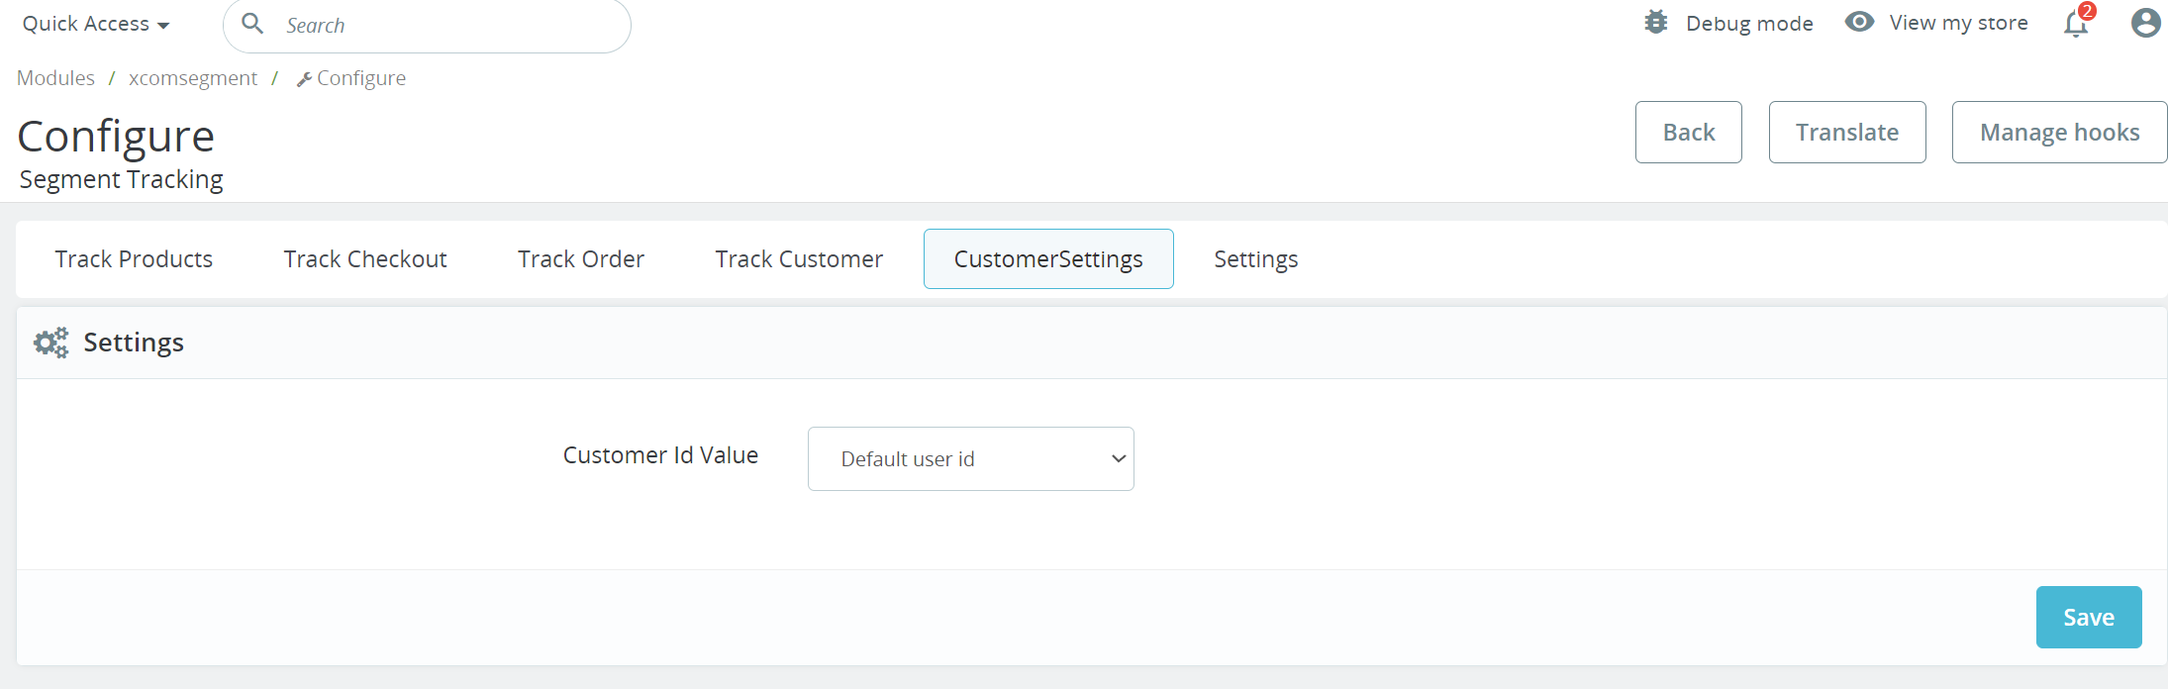
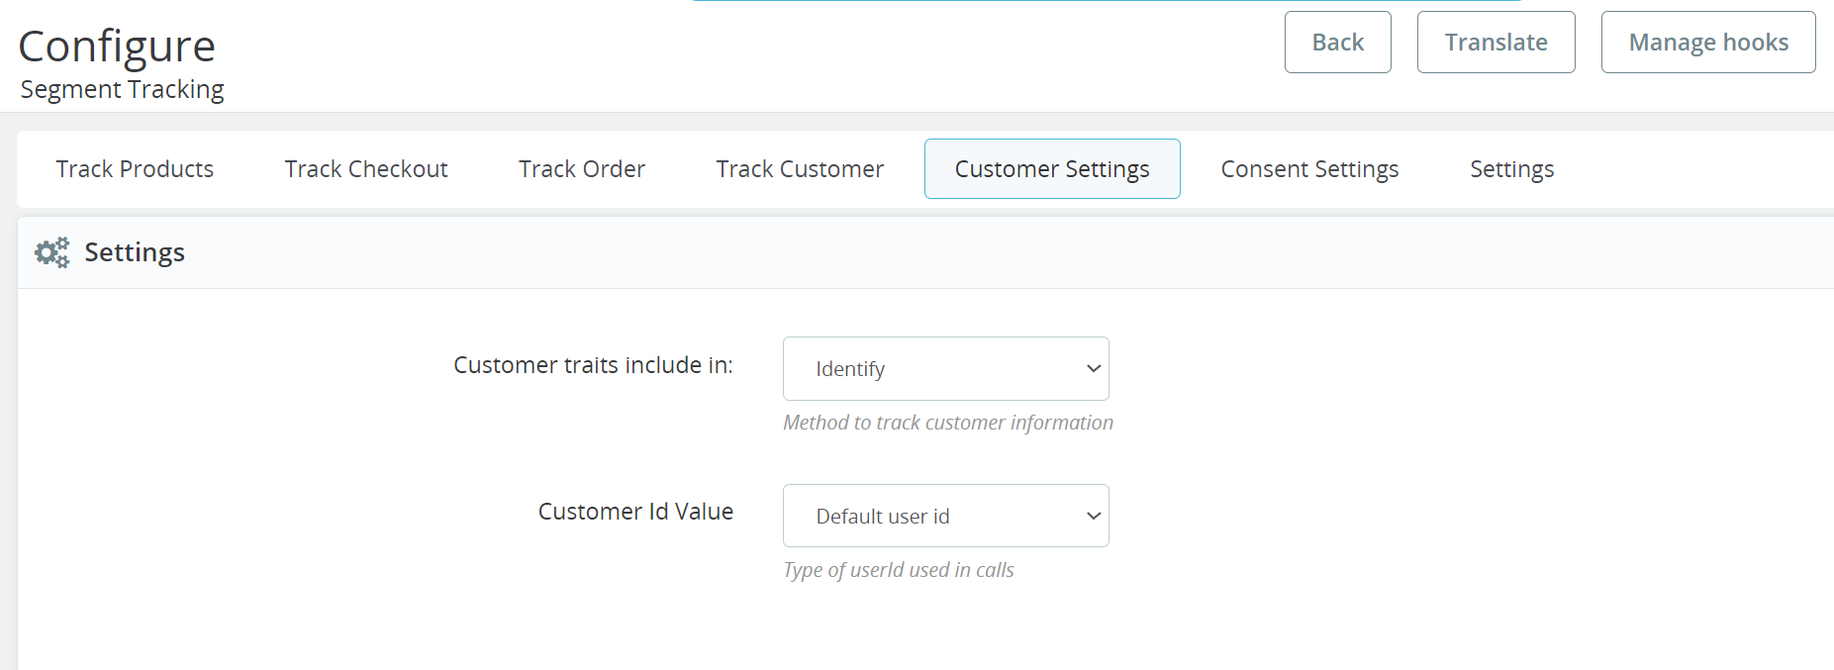
Documentation

diff --git a/src/connections/sources/catalog/cloud-apps/prestashop-xcommerce/index.md b/src/connections/sources/catalog/cloud-apps/prestashop-xcommerce/index.md
@@ -27,38 +27,50 @@ This source is maintained by Prestashop - Segment Tracking by Xcommerce. For any
     ![Navigate to Module manager.](Images/GoToConfigure.png)
 
    > **Note**: On the configuration page you will see a number of Tabs corresponding to various settings. Start with the las tab (Settings)
+
 3. Settings tab:
 
     ![Settings tab.](Images/SettingsTab.png)
+    This is the page where you will select the general connection and labeling options.
    - Active - Select if the Module is active and sends data to Segment
-   - Client API key - API key for the designated Segment Source
-   - Client API Host - Only needed if the host is not in the US ***More details may be needed, but could not find any in the Segment documentation (https://segment.com/docs/connections/sources/catalog/libraries/website/javascript/custom-proxy/ https://segment.com/docs/connections/sources/catalog/libraries/server/http-api/)***
-   - Client Sent From - Designate a label you want to be included in the events sent for Client Side
-   - Server to Server API key - You can use the API key of the Source used for Client Side, or you can create a separate Segment source and use the API key for the second source
-   - Server API host - Only needed if the host is not in the US ***More details may be needed, but could not find any in the Segment documentation (https://segment.com/docs/connections/sources/catalog/libraries/website/javascript/custom-proxy/ https://segment.com/docs/connections/sources/catalog/libraries/server/http-api/)***
-   - Server Sent From - Designate a label you want to be included in the events sent for Server Side
-   - Event Category - Designate the default event category name. This will be visible in all Events (Client side and Server side)
-   - Track Page View - You can select if you want to track all the viewed pages. This will send an event o every page load.
+   - API Key - API key for the designated Segment Source
+   - API Host - Only needed if the host is not in the US ***More details may be needed, but could not find any in the Segment documentation (https://segment.com/docs/connections/sources/catalog/libraries/website/javascript/custom-proxy/ https://segment.com/docs/connections/sources/catalog/libraries/server/http-api/)***
+   - Storefront Action Label - Designate a label you want to be included in the events triggered by actions performed in Storefront
+   - Backoffice Action Label - Designate a label you want to be included in the events triggered by actions performed in Backoffice
+   - Event Category - Designate the default event category name. This will be visible in all Events
+   - Page View - You can select if you want to track all the viewed pages. This will send an event o every page load.
    
     > **Note**: Make sure to click Save after you are satisfied with the configurations.
-4. CustomerSettings tab:
+   
+4. Consent Settings Tab:
+
+    ![Customer Setting tab.](Images/ConsentSettingsTab.png)
+    On this page you can select if and how to track Customer Consent Settings
+   - Customer Consent Update - Select if the consent update will be tracked or not
+   - Consent Service - Select one of two options: CookieBoot or Custom
+   - Track Script - Enter the js script for the Consent Service
+   
+    > **Note**: Make sure to click Save after you are satisfied with the configurations.
+
+5. Customer Settings tab:
 
     ![Customer Setting tab.](Images/CustomerSettingsTab.png)
     Here you will find two settings: "Customer traits included in:" and "Customer Id value"
 
    - Customer traits included in:
-     - Identity - in the trait location ***(needs more details)***
-     - Track context traits: in the context.traits location ***(needs more details)***
-     - Track context properties: in the properties location ***(needs more details)***
+     - Identify - This option will trigger a separate identify event along with the Customer Login, Customer Register, Consent Updated and Customer Updated events. This Event will contain the Customer specific properties. 
+     - Track context traits - No Identify event will be triggered. Instead, the Customer specific properties will be included in all the Events. The properties will pe present in the "context" array.
+     - Track context properties - No Identify event will be triggered. Instead, the Customer specific properties will be included in all the Events. The properties will pe present in the "properties" array.
      
    - Customer ID value
-     - Default user id - use the Prestashop user ID as the Customer ID value
-     - Custom user id - you can specify a certain field from the Database ***(Presta User ID should be mentioned in the separate table if a different table than ps_customer is used)***
-     - Email dash - use the emai dash of the customer as the Customer ID value
-     - Not use user id - use an anonymous ID as the Customer ID value
-   - Make sure to click Save after you are satisfied with the configurations.
+     - Default user id - Use the Prestashop user ID as the Customer ID value
+     - Custom user id - You can specify a certain field from the Database ***(id_customer needs to be mentioned in the used table if a different table than ps_customer is used)***
+     - Email dash - Use the email hash of the customer as the Customer ID value. You can also add a Prefix and a Suffix to the email hash.
+     - Do not use user id - Use an anonymous ID as the Customer ID value
+
+    > **Note**: Make sure to click Save after you are satisfied with the configurations.
      
-5. The rest of the tabs can be used to enable or disable the Events tracked by Segment Tracking. There are 4 tabs, one for each Event Category: Track Products, Track Checkout, Track Order and Track Customer. Use these tabs to select which event you want Segment Tracking to track
+6. The rest of the tabs can be used to enable or disable the Events tracked by Segment Tracking. There are 4 tabs, one for each category of events: Track Products, Track Checkout, Track Order and Track Customer. Use these tabs to select which event you want Segment Tracking to track.
 
 
 ## Getting started (***Maybe moved above instalation***)
@@ -88,38 +100,8 @@ The default behavior is for Klaviyo (***Klaviyo is a data analytics driven marke
 ## Events
 
 The table below lists events that Prestashop - Segment Tracking by Xcommerce sends to Segment. These events appear as tables in your warehouse, and as regular events in other Destinations. Prestashop - Segment Tracking by Xcommerce includes the `userId` if available.
-
-### Device-mode events (client side)
-
-Device-mode handles events triggered directly by the user. This kind of information is usually not stored in the database, things like page views, button clicks or mouse movements.
-
-| Event Name                     | Description                                                 |
-|--------------------------------|-------------------------------------------------------------|
-| Product List Viewed            | User has viewed a product collection                        |
-| Product Clicked                | User has clicked on a product from the collection           | 
-| Product Viewed                 | User has viewed the product detail page                     | 
-| Product Shared                 | User has shared a product                                   | 
-| Product Image Clicked          | User has clicked a product image                            | 
-| Products Searched              | User has searched for products                              | 
-| Registration Viewed            | User has viewed the registration form                       | 
-| Thankyou Page Viewed           | User had viewed the thank you page                          | 
-| Product Added                  | User added a product to their shopping cart                 | 
-| Product Removed                | User removed a product from their shopping cart             | 
-| Cart Viewed                    | User viewed their shopping cart                             | 
-| Checkout Started               | User initiated the order process (a transaction is created) | 
-| Checkout Step Viewed           | User viewed a checkout step                                 |
-| Checkout Step Completed        | User completed a checkout step                              |
-| Payment Info Entered           | User added payment information                              |
-| Order Completed                | User completed the order                                    |
-| Order Canceled                 | User canceled the order                                     |
-| Order Refunded                 | User refunded for the order                                 |
-| Coupon Applied                 | Coupon was applied on a user’s shopping cart or order       |
-| Product Added to Wishlist      | User added a product to their wishlist                      |
-| Product removed from wishlist  | User removed a product from their wishlist                  |
-| Wishlist Product Added to Cart | User added product to cart from wishlist                    |
-
  
-##Identify calls - To be discussed!
+###Identify calls - To be discussed!
 
 For every event where there is an identifiable customer (from both the device-mode and cloud-mode) Xcommerce Segment Integration also sends an Identify call. This happens when the customer logs into the storefront, on the last step of the checkout, with the order, and also after purchase with any customer update in Admin Panel.
 
@@ -139,14 +121,32 @@ The following traits are included with an Identify call:
 
 Cloud-mode handles events that have data stored or calculated in the Database. These events send data that is not necessarily available to the User in the browser. This method can capture information that would otherwise be inaccessible due to add block, for example.
 
-| Event Name         | Description                           |
-|--------------------|---------------------------------------|
-| Email Sent         | Email was sent successfully           |
-| Email Opened       | Prospect opened the email             |
-| Link Clicked       | Prospect clicked the tracking link    |
-| Email Replied      | Prospect replied to email sent        |
-| Email Bounced      | Email servers rejected the email      |
-| Email Unsubscribed | Prospect clicked the unsubscribe link |
+| Event Name                    | Description                                                                                          | ***Triggers????*** |
+|-------------------------------|------------------------------------------------------------------------------------------------------|--------------------|
+| Customer Consent Update       | Follows updates to the User Consent                                                                  |                    |
+| Customer Register             | Follows the submission of the Customer Register form                                                 |                    |
+| Customer Created              | Follows the successful creation of a customer in Backoffice                                          |                    |
+| Customer Login                | Follows the successful Customer Login events                                                         |                    |
+| Customer Logout               | Follows the successful Customer Logout events                                                        |                    |
+| Customer Updated              | Follows updates to a Customer Account                                                                |                    |
+| Product Viewed                | Follows the successful loading of Product Detail Pages                                               |                    |
+| Product Quick Viewed          | Follows the viewing of Product Quick View pop-up                                                     |                    |
+| Product List Viewed           | Follows the displaying of Product Lists                                                              |                    |
+| Product List Filtered         | Follows the applying of Filters on Product Lists                                                     |                    |
+| Product Searched              | Follows the loading of Product Searches Results pages                                                |                    |
+| Product Searched Autocomplete | Follows the population of Search Autocomplete lists                                                  |                    |
+| Product Added                 | Follows the successful adding of products to cart                                                    |                    |
+| Product Quantity Updated      | Follows the product quantity updated on Cart Page                                                    |                    |
+| Product Removed               | Follows the removal of products from Cart page                                                       |                    |
+| Cart Viewed                   | Follows the successful loading of the Cart Page                                                      |                    |
+| Checkout Started              | Follows the successful loading of the first Checkout Step ***to be clarified***                      |                    |
+| Checkout Step Viewed          | Follows the successful loading of subsequent Checkout Steps                                          |                    |
+| Thank You Page Viewed         | Follows the successful loading of Thank You Pages after placing an order                             |                    |
+| Order Completed               | Follows the successful placing of an Order (from Storefront or Backoffice)                           |                    |
+| Order Cancelled               | Follows the successful changing of the Order Status to "Canceled" from Backoffice                    |                    |
+| Order Refunded                | Follows the successful changing of the Order Status to "Refunded" from Backoffice                    |                    |
+| Order Updated                 | Follows the successful update of the Order from Backoffice (status changes or order details changes) |                    |
+
 
 ## Event Properties
 
@@ -154,58 +154,58 @@ The table below list the properties included in the events listed above.
 
 ### Product Properties
 
-| Property Name                      | Description                                                       |
-|------------------------------------|-------------------------------------------------------------------|
-| `brand`                            | The brand of the product                                          |
-| `compare_at_price`                 | The product price before any discount                             |
-| `name`                             | The product name                                                  |
-| `category`                         | The category of the product                                       |
-| `currency`                         | Currency code associated with the transaction                     |
-| `image_url`                        | The URL of the first product image                                |
-| `position`                         | The product position in the collection                            |
-| `price`                            | The product price at the time of the event, in the store currency |
-| `product_id`                       | The Prestashop Product ID                                         |
-| `prestashop_product_id`            | Prestashop Product ID                                             |
-| `prestashop_variant_id`            | Prestashop Product Variant ID                                     |
-| `sku`                              | The product SKU                                                   |
-| `tags`                             | The product tags                                                  |
-| `variant`                          | The product variant name                                          |
-| `presentment_amount`               | The product price as displayed to the user                        |
-| `presentment_currency`             | The currency displayed to the user                                |
-| `product_properties`               | Custom properties of purchased products                           |
-| `products`                         | Products displayed in the product list                            |
-| `quantity`                         | The quantity of products                                          |
-| `url`                              | The URL of the product page                                       |
+| Property Name                      | Description                                                       | Property Type |
+|------------------------------------|-------------------------------------------------------------------|---------------|
+| `brand`                            | The brand of the product                                          | String        |
+| `compare_at_price`                 | The product price before any discount                             | Number        |
+| `category`                         | The category of the product                                       | String        |
+| `currency`                         | Currency code associated with the transaction                     | String        |
+| `image_url`                        | The URL of the first product image                                | String        |
+| `name`                             | The product name                                                  | String        |
+| `position`                         | The product position in the collection                            | Integer       |
+| `presentment_amount`               | The product price as displayed to the user                        | Number        |
+| `presentment_currency`             | The currency displayed to the user                                | String        |
+| `prestashop_product_id`            | Prestashop Product ID                                             | String        |
+| `prestashop_variant_id`            | Prestashop Product Variant ID                                     | String        |
+| `price`                            | The product price at the time of the event, in the store currency | Number        |
+| `product_id`                       | The Prestashop Product ID                                         | String        |
+| `products`                         | Products displayed in the product list                            | Array         |
+| `quantity`                         | The quantity of products                                          | Integer       |
+| `sku`                              | The product SKU                                                   | String        |
+| `tags`                             | The product tags                                                  | String        |
+| `url`                              | The URL of the product page                                       | String        |
+| `variant`                          | The product variant name                                          | String        |
+
 
 ### Order Properties
- 
-| Property Name                      | Description                                                       |
-|------------------------------------|-------------------------------------------------------------------|
-| `cancel_reason`                    | The reason for canceling the order                                |
-| `cart_id`                          | The ID of the Prestashop cart                                     |
-| `checkout_id`                      | The ID of the checkout session                                    |
-| `coupon`                           | Coupon code associated with the product                           |
-| `coupon_id`                        | ID of the coupon                                                  |
-| `discount`                         | The discounted amount                                             |
-| `order_id`                         | The ID of the order                                               |
-| `payment_gateway_xcommerce`        | The payment gateway used by the customer                          |
-| `payment_method`                   | The payment method chosen for checkout                            |
-| `presentment_amount`               | The product price as displayed to the user                        |
-| `presentment_currency`             | The currency displayed to the user                                |
-| `presentment_total`                | Presentment total                                                 |
-| `quantity`                         | The quantity of products                                          |
-| `refund_reason`                    | The reason for the refund                                         |
-| `revenue`                          | Revenue ($) associated with the transaction                       |
-| `shipping`                         | The shipping cost                                                 |
-| `shipping_method`                  | The shipping method chosen for checkout                           |
-| `source_name`                      | The source of the order or checkout (e.g. web, android, pos)      |
-| `step`                             | The checkout step number                                          |
-| `subtotal`                         | Order total after discounts but before taxes and shipping         |
-| `tax`                              | The amount of tax on the order                                    |
-| `total`                            | Revenue with discounts and coupons added                          |
-| `url`                              | The URL for the current checkout step                             |
 
-### Customer Properties
+***Questions***
+1. Only mention Order Completed properties or Checkout specific properties and product specific? 
+ 
+| Property Name                | Description                                                           | Property Type |
+|------------------------------|-----------------------------------------------------------------------|---------------|
+| `cart_id`                    | The ID of the Prestashop cart                                         | String        | 
+| `coupon`                     | Coupon id and name associated with the product ***or transaction??*** | String        |
+| `currency`                   | Currency code associated with the transaction                         | String        |
+| `discount`                   | The discounted amount                                                 | Number        | 
+| `lifetime_revenue_xcommerce` | User lifetime revenue                                                 | Number        |
+| `event_category`             | The category of the events, as set in Backoffice                      | String        |       
+| `order_id`                   | The ID of the order                                                   | String        |      
+| `payment_gateway_xcommerce`  | The payment gateway used by the customer                              | String        |     
+| `presentment_amount`         | The product price as displayed to the user                            | Number        |    
+| `presentment_currency`       | The currency displayed to the user                                    | String        |   
+| `purchase_count_xcommerce`   | Total purchase count for the customer                                 | Integer       |  
+| `revenue`                    | Revenue ($) associated with the transaction                           | Number        |      
+| `shipping`                   | The shipping cost                                                     | Number        |      
+| `shipping_gateway_xcommerce` | The shipping method chosen for checkout                               | String        |     
+| `source_name`                | The source of the order or checkout (e.g. web, android, pos)          | String        |    
+| `source`                     | The reason of the trigger                                             | String        |   
+| `step`                       | The checkout step number                                              | Integer       |  
+| `subtotal`                   | Order total after discounts but before taxes and shipping             | Number        | 
+| `tax`                        | The amount of tax on the order                                        | Number        |       
+| `total`                      | Revenue with discounts and coupons added                              | Number        |      
+
+### Customer Properties ***TO DO***
  
 | Property Name                      | Description                                                       |
 |------------------------------------|-------------------------------------------------------------------|
@@ -298,7 +298,7 @@ The table below list the properties included in the events listed above.
 | `wishlist_id`                      | Prestashop wishlist ID                                            |
 
 
-## Adding Destinations
+## Adding Destinations ***TO DO***
 
 Now that your Source is set up, you can connect it with Destinations.
 
